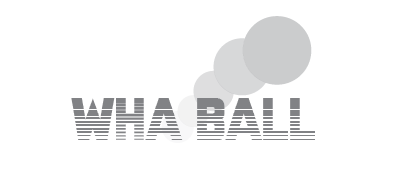
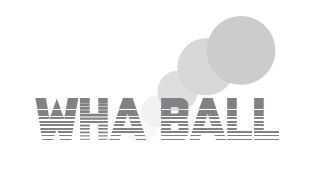
Better centering image on smaller screens

diff --git a/download/whaball.html b/download/whaball.html
@@ -111,20 +111,33 @@
 		margin:-28px 0 0 80px;
 	}
 }
+
+@media (min-width: 318px) {
+	.showcase .titleimage {
+		width: 318px;
+		height: 184px;
+	}
+}
+
+@media (max-width: 317px) {
+	.showcase .titleimage {
+		width: 100%;
+	}
+}
 </style>
 
 <div class="directory" style="position:absolute;width:90%;margin: 120px auto 0;left:0;right:0;font-weight:bold;font-family:Simplifica;color:gray;">/download/wha ball</div>
 
 <div class="showcase">
-	<div style="width:400px;margin:0 auto;">
-		<img src="../style/images/showcase/showcase_whaball.png"/>
+	<div class="titleimage" style="position:relative;right:0;left:50%;margin-right:-50%;transform: translate(-50%, 0%);">
+		<img style="width:100%" src="../style/images/showcase/showcase_whaball.png"/>
 	</div>
 	<div class="patchtag" style="width:81px;height:auto;text-align:center;color:gray;border:1px solid gray">
 		v1.0
 	</div>
 	<div class="patchnotes" style="width:auto;height:200px;border:1px solid gray">
 		<ul style="padding:10px 40px;list-style-type:circle">
-			<li>Added Bots</li>
+			<li>Added bots</li>
 			<li>Added local multiplayer mode</li>
 		</ul>
 	</div>
